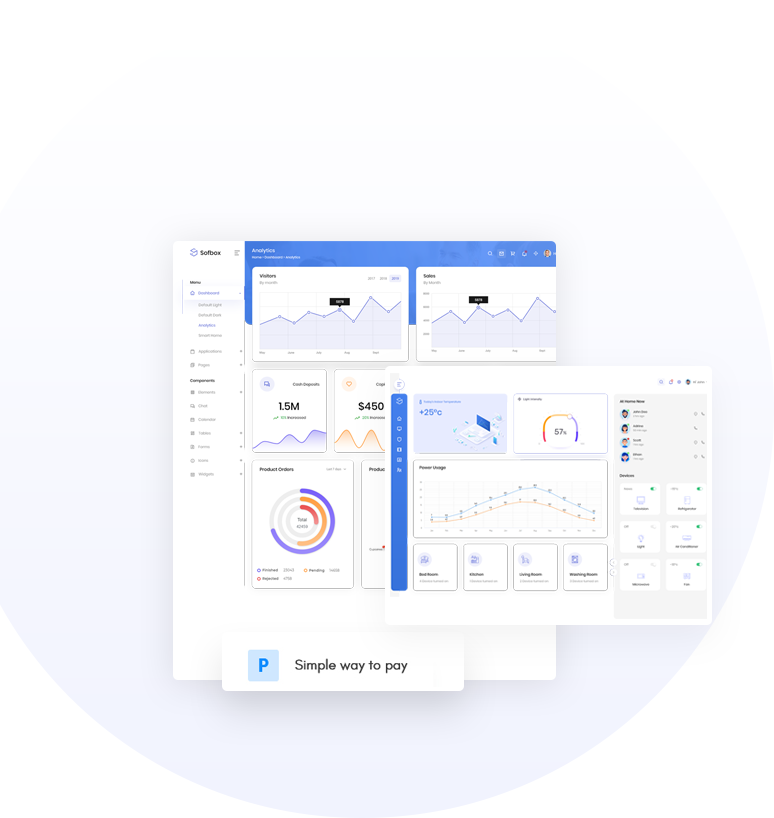
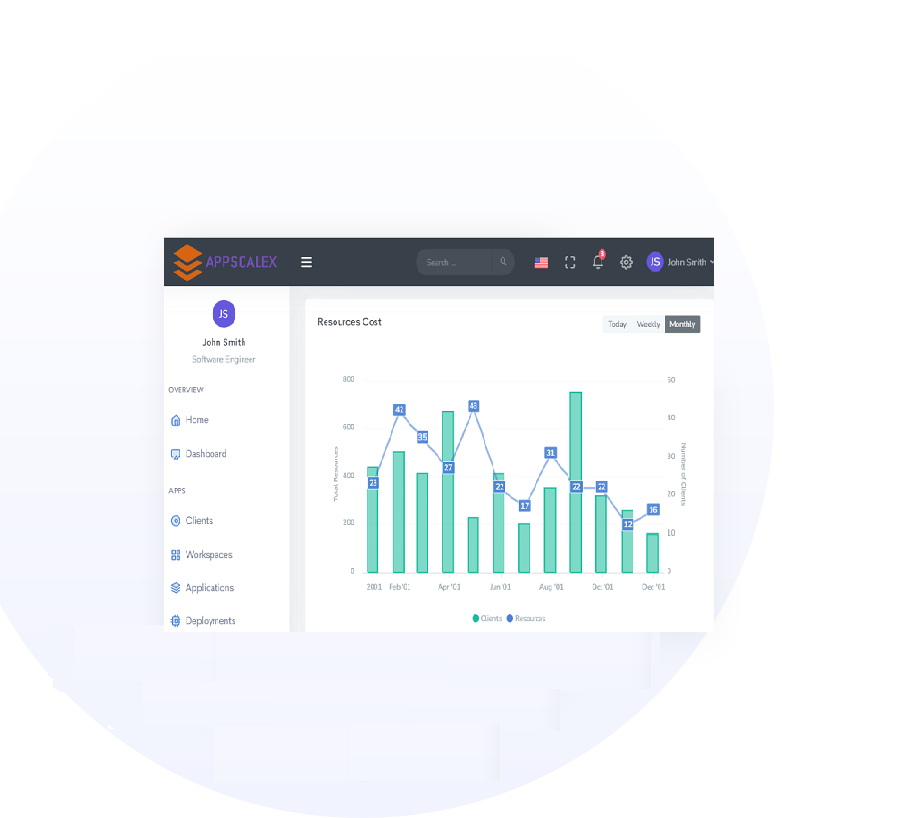
changes

diff --git a/src/app/pages/contact-us/contact-us.component.html b/src/app/pages/contact-us/contact-us.component.html
@@ -40,7 +40,7 @@
               <div class="service-detail">
                 <h4 class="mb-2">Phone support</h4>
                 <ul class="list-inline mb-0">
-                  <li> <a href="tel:+19168084228"> +19168084228</a> </li>
+                  <li> <a href="tel:+91-7349081267"> +91-7349081267</a> </li>
                 </ul>
               </div>
             </div>

diff --git a/src/app/our-cases/portfolio-three/portfolio-three.component.ts b/src/app/our-cases/portfolio-three/portfolio-three.component.ts
@@ -9,7 +9,7 @@ import { topMenuBarItems } from '../../../constants/menu';
 export class PortfolioThreeComponent implements OnInit {
   logoImage = './assets/images/logo.png';
   contactInfo: any = {
-    contactNumber: '+19168084228',
+    contactNumber: '+91-7349081267',
     email: 'support@appscalex.com'
   };
   public navItems: any = topMenuBarItems;

diff --git a/src/app/pages/careers/careers.component.ts b/src/app/pages/careers/careers.component.ts
@@ -9,7 +9,7 @@ import { topMenuBarItems } from '../../../constants/menu';
 export class CareersComponent implements OnInit {
   logoImage = './assets/images/logo.png';
   contactInfo: any = {
-    contactNumber: '+19168084228',
+    contactNumber: '+91-7349081267',
     email: 'support@appscalex.com'
   };
   public navItems: any = topMenuBarItems;

diff --git a/src/app/landing-page5/index/index.component.ts b/src/app/landing-page5/index/index.component.ts
@@ -11,7 +11,7 @@ export class IndexComponent implements OnInit {
 
   logoImage = './assets/images/logo.png';
   contactInfo: any = {
-    contactNumber: '+19168084228',
+    contactNumber: '+91-7349081267',
     email: 'support@appscalex.com',
     address: '12th Cross Rd, Koramangala, Bengaluru, Karnataka 560085, India'
   };

diff --git a/src/app/service/data-visualization-services/data-visualization-services.component.ts b/src/app/service/data-visualization-services/data-visualization-services.component.ts
@@ -10,7 +10,7 @@ export class DataVisualizationServicesComponent implements OnInit {
 
   logoImage = './assets/images/logo.png';
   contactInfo: any = {
-    contactNumber: '+19168084228',
+    contactNumber: '+91-7349081267',
     email: 'support@appscalex.com'
   };
   public navItems: any = topMenuBarItems;

diff --git a/src/app/service/artificial-intelligence/artificial-intelligence.component.ts b/src/app/service/artificial-intelligence/artificial-intelligence.component.ts
@@ -10,7 +10,7 @@ export class ArtificialIntelligenceComponent implements OnInit {
 
   logoImage = './assets/images/logo.png';
   contactInfo: any = {
-    contactNumber: '+19168084228',
+    contactNumber: '+91-7349081267',
     email: 'support@appscalex.com'
   };
   public navItems: any = topMenuBarItems;

diff --git a/src/app/service/data-science-consulting/data-science-consulting.component.ts b/src/app/service/data-science-consulting/data-science-consulting.component.ts
@@ -10,7 +10,7 @@ export class DataScienceConsultingComponent implements OnInit {
 
   logoImage = './assets/images/logo.png';
   contactInfo: any = {
-    contactNumber: '+19168084228',
+    contactNumber: '+91-7349081267',
     email: 'support@appscalex.com'
   };
   public navItems: any = topMenuBarItems;

diff --git a/src/app/service/business-intelligence/business-intelligence.component.ts b/src/app/service/business-intelligence/business-intelligence.component.ts
@@ -11,7 +11,7 @@ export class BusinessIntelligenceComponent implements OnInit {
 
   logoImage = './assets/images/logo.png';
   contactInfo: any = {
-    contactNumber: '+19168084228',
+    contactNumber: '+91-7349081267',
     email: 'support@appscalex.com'
   };
   public navItems: any = topMenuBarItems;

diff --git a/src/app/blog/blog-right-one-grid/blog-right-one-grid.component.ts b/src/app/blog/blog-right-one-grid/blog-right-one-grid.component.ts
@@ -10,7 +10,7 @@ export class BlogRightOneGridComponent implements OnInit {
 
   logoImage = './assets/images/logo.png';
   contactInfo: any = {
-    contactNumber: '+19168084228',
+    contactNumber: '+91-7349081267',
     email: 'support@appscalex.com'
   };
   public navItems: any = topMenuBarItems;

diff --git a/src/app/blog/blog-right-two-grid/blog-right-two-grid.component.ts b/src/app/blog/blog-right-two-grid/blog-right-two-grid.component.ts
@@ -10,7 +10,7 @@ export class BlogRightTwoGridComponent implements OnInit {
 
   logoImage = './assets/images/logo.png';
   contactInfo: any = {
-    contactNumber: '+19168084228',
+    contactNumber: '+91-7349081267',
     email: 'support@appscalex.com'
   };
   public navItems: any = topMenuBarItems;

diff --git a/src/app/service/managed-analytics/managed-analytics.component.ts b/src/app/service/managed-analytics/managed-analytics.component.ts
@@ -10,7 +10,7 @@ export class ManagedAnalyticsComponent implements OnInit {
 
   logoImage = './assets/images/logo.png';
   contactInfo: any = {
-    contactNumber: '+19168084228',
+    contactNumber: '+91-7349081267',
     email: 'support@appscalex.com'
   };
   public navItems: any = topMenuBarItems;

diff --git a/src/app/blog/blog-left-two-grid/blog-left-two-grid.component.ts b/src/app/blog/blog-left-two-grid/blog-left-two-grid.component.ts
@@ -10,7 +10,7 @@ export class BlogLeftTwoGridComponent implements OnInit {
 
   logoImage = './assets/images/logo.png';
   contactInfo: any = {
-    contactNumber: '+19168084228',
+    contactNumber: '+91-7349081267',
     email: 'support@appscalex.com'
   };
   public navItems: any = topMenuBarItems;
